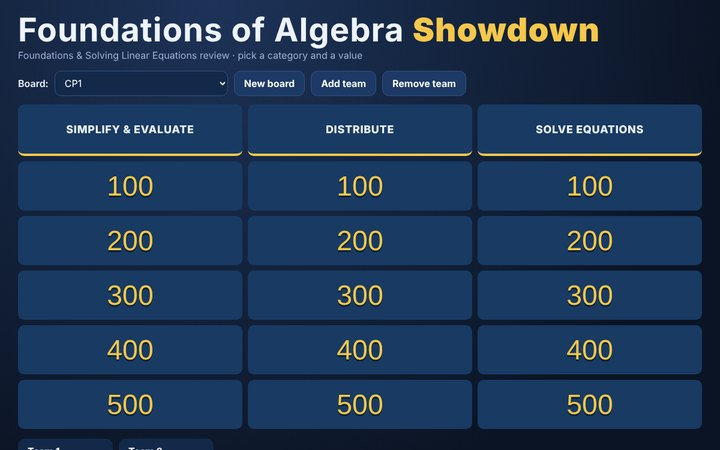
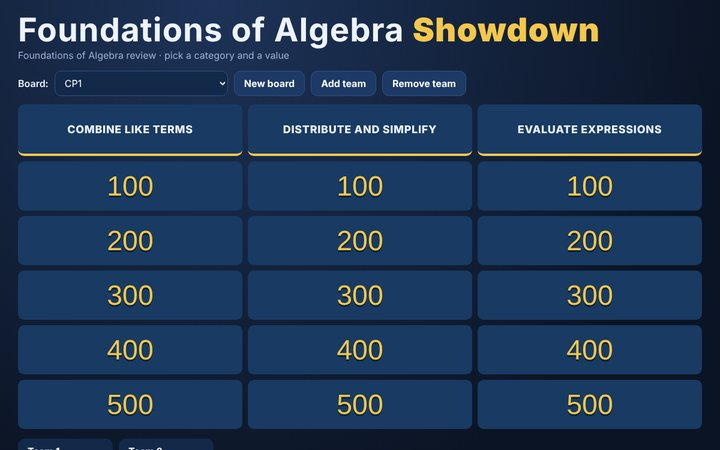
Add files via upload

diff --git a/worksheet-generator/games/games.js b/worksheet-generator/games/games.js
@@ -77,7 +77,7 @@
     var S = { level: saved.level || 'cp1', skill: 'all', cards: [], order: [], i: 0, flip: false, rate: saved.rate || {}, missed: false };
     GB._state = function () { return S; };
     function build() {
-      deck(levelSlots(S.level, skillIds, skillIds.length * 3 < 20 ? 2 : 1), { msg: 'Shuffling a fresh deck…' }, function (its) {
+      deck(levelSlots(S.level, skillIds, Math.max(1, Math.ceil(20 / (skillIds.length * 3)))), { msg: 'Shuffling a fresh deck…' }, function (its) {
         S.cards = its; S.rate = {}; S.i = 0; S.flip = false; S.missed = false; refilter(); persist(); render();
       });
     }
@@ -136,11 +136,13 @@
     var NAMES = { cp2: 'CP2', cp1: 'CP1', honors: 'Honors', mixed: 'Mixed (100 easy → 500 Honors)' };
     var S = { preset: saved.preset || 'cp1', teams: saved.teams || ['Team 1', 'Team 2'], score: [], cells: {}, open: null, showOpts: false, showAns: false };
     GB._state = function () { return S; };
-    var cols = tags.slice(0, 6), VALUES = [100, 200, 300, 400, 500];
+    /* one category per skill group; a unit with fewer than three groups gets one category per skill instead */
+    var cols = (tags.length >= 3 ? tags.slice(0, 6).map(function (t) { return { name: SET.tags[t], skills: skillIds.filter(function (id) { return SET.byId[id].tag === t; }) }; })
+      : skillIds.slice(0, 6).map(function (id) { return { name: SET.byId[id].name, skills: [id] }; })), VALUES = [100, 200, 300, 400, 500];
     function build() {
       var slots = [];
       cols.forEach(function (t, ci) {
-        var sk = rng.shuffle(skillIds.filter(function (id) { return SET.byId[id].tag === t; }));
+        var sk = rng.shuffle(t.skills.slice());
         VALUES.forEach(function (v, ri) { slots.push({ skill: sk[ri % sk.length], c: PRESETS[S.preset][ri], col: ci, row: ri }); });
       });
       deck(slots, { msg: 'Setting up the board…' }, function (its) {
@@ -153,7 +155,7 @@
       var h = '<h1 class="sd-title">' + esc(TITLE).replace(/Showdown/, '<b>Showdown</b>') + '</h1><p class="sd-sub">' + esc(SET.unitName) + ' review · pick a category and a value</p>' +
         '<div class="gm-ctl"><label for="sdPreset">Board:</label><select class="gm-sel" id="sdPreset">' + Object.keys(PRESETS).map(function (k) { return '<option value="' + k + '"' + (k === S.preset ? ' selected' : '') + '>' + NAMES[k] + '</option>'; }).join('') + '</select>' +
         '<button class="gm-btn" id="sdNew">New board</button><button class="gm-btn" id="sdAddT"' + (S.teams.length >= 4 ? ' disabled' : '') + '>Add team</button><button class="gm-btn" id="sdRemT"' + (S.teams.length <= 1 ? ' disabled' : '') + '>Remove team</button></div>' +
-        '<div class="sd-board" style="grid-template-columns:repeat(' + cols.length + ',1fr)">' + cols.map(function (t) { return '<div class="sd-cat">' + esc(SET.tags[t]) + '</div>'; }).join('');
+        '<div class="sd-board" style="grid-template-columns:repeat(' + cols.length + ',1fr)">' + cols.map(function (t) { return '<div class="sd-cat">' + esc(t.name) + '</div>'; }).join('');
       VALUES.forEach(function (v, ri) { cols.forEach(function (t, ci) {
         var cell = S.cells[ci + ',' + ri];
         h += cell ? '<button class="sd-cell" data-cell="' + ci + ',' + ri + '"' + (cell.used ? ' disabled aria-label="used"' : ' aria-label="' + esc(SET.tags[t]) + ' for ' + v + '"') + '>' + (cell.used ? '' : v) + '</button>' : '<button class="sd-cell err" disabled>No verified problem</button>';
@@ -172,7 +174,7 @@
     function persist() { save({ preset: S.preset, teams: S.teams }); }
     function renderQ() {
       var it = S.open.it, v = VALUES[it.slot.row];
-      var h = '<div class="sd-q"><div class="gm-row"><span class="sd-val">' + esc(SET.tags[cols[it.slot.col]]) + ' · ' + v + '</span><span class="gm-sp"></span><button class="gm-btn" id="sdBack">Back to board (Esc)</button></div>' + qHtml(it) +
+      var h = '<div class="sd-q"><div class="gm-row"><span class="sd-val">' + esc(cols[it.slot.col].name) + ' · ' + v + '</span><span class="gm-sp"></span><button class="gm-btn" id="sdBack">Back to board (Esc)</button></div>' + qHtml(it) +
         (S.showOpts ? optsHtml(it, { reveal: S.showAns }) : '') +
         '<div class="gm-row" style="margin-top:14px">' + (S.showOpts ? '' : '<button class="gm-btn" id="sdOpts">Show choices</button>') + (S.showAns ? '' : '<button class="gm-btn primary" id="sdAns">Show answer (Space)</button>') + '</div>' +
         (S.showAns ? solHtml(it) + '<div class="gm-row"><b>Award:</b>' + S.teams.map(function (n, i) { return '<button class="gm-btn" data-aw="' + i + '" data-s="1">+' + v + ' ' + esc(n) + '</button><button class="gm-btn" data-aw="' + i + '" data-s="-1">−' + v + '</button>'; }).join('') + '</div>' : '') + '</div>' + teamsHtml();

diff --git a/worksheet-generator/games/bank.js b/worksheet-generator/games/bank.js
@@ -82,7 +82,10 @@
       [ti - 1, ti + 1].forEach(function (j) { if (j >= 0 && j < 4) out.push({ a: nm[1] ? nm[1] + ' ' + TN[j] : cap(TN[j]), w: 3 }); });
       if (di >= 0) [di - 1, di + 1].forEach(function (j) { if (j >= 0 && j < 5) out.push({ a: DN[j] + ' ' + nm[2].toLowerCase(), w: 3 }); }); }
     var CW = [['One solution', 'One solution: the slopes are different.'], ['No solution', 'No solution: the lines are parallel.'], ['Infinitely many solutions', 'Infinitely many solutions: the equations describe the same line.']];
-    if (/^\s*(One solution|No solution|Infinitely many solutions)\b/.test(ans)) CW.forEach(function (cw) { if (ans.indexOf(cw[0]) !== 0) out.push({ a: cw[1], w: 4 }); });
+    // systems words only for systems answers ("No solution: the lines are parallel."), never for one-variable or inequality answers
+    if (/^\s*(One solution|No solution|Infinitely many solutions)\s*:/.test(ans) && !/⟨\s*[a-z]\s*=/.test(ans)) CW.forEach(function (cw) { if (ans.indexOf(cw[0]) !== 0) out.push({ a: cw[1], w: 4 }); });
+    if (/^\s*All real numbers\s*$/.test(ans)) out.push({ a: 'No solution', w: 5 });
+    if (/^\s*No solution\s*$/.test(ans)) out.push({ a: 'All real numbers', w: 5 });
     if (/^\s*Undefined\b/.test(ans)) { out.push({ a: '⟨m=0⟩', w: 5 }); out.push({ a: '⟨m=1⟩', w: 1 }); }
     if (/^⟨m=0⟩$/.test(ans.trim())) out.push({ a: 'Undefined', w: 5 });
     ['Parallel', 'Perpendicular', 'Neither'].forEach(function (wd) { if (new RegExp('^\\s*(Parallel|Perpendicular|Neither)\\s*$').test(ans) && ans.trim() !== wd) out.push({ a: wd, w: 4 }); });
@@ -338,12 +341,16 @@
     opts = opts || {}; var used = { keys: new Set(), sigs: new Set() }, out = [], i = 0, seed = opts.seed || String(Date.now()) + Math.random();
     var rng = G.MKWS.rng.make(G.MKWS.rng.hash(seed + '|deck'));
     function one(slot, n) {
-      var policy = { intOnly: slot.c <= 5, level: 'game' };
-      for (var tries = 0; tries < 10; tries++) {
-        var its = GB.makeItems(setId, slot.skill, slot.c, policy, seed + '|' + n + '|' + tries, used);
-        if (opts.typedOnly) its = its.filter(function (it) { return it.typed; });
-        if (opts.preferTyped && its.some(function (it) { return it.typed; })) its = its.filter(function (it) { return it.typed; });
-        if (its.length) return rng.pick(its);
+      // the slot's difficulty first; if that skill makes no game items there, the nearest difficulty (so no card is missing)
+      var cs = [slot.c, slot.c - 1, slot.c + 1, slot.c - 2, slot.c + 2].filter(function (c) { return c >= 1 && c <= 7; });
+      for (var k = 0; k < cs.length; k++) {
+        var policy = { intOnly: cs[k] <= 5, level: 'game' };
+        for (var tries = 0; tries < (k ? 6 : 10); tries++) {
+          var its = GB.makeItems(setId, slot.skill, cs[k], policy, seed + '|' + n + '|' + k + '|' + tries, used);
+          if (opts.typedOnly) its = its.filter(function (it) { return it.typed; });
+          if (opts.preferTyped && its.some(function (it) { return it.typed; })) its = its.filter(function (it) { return it.typed; });
+          if (its.length) return rng.pick(its);
+        }
       }
       return null;
     }

diff --git a/worksheet-generator/menu-assessment.html b/worksheet-generator/menu-assessment.html
@@ -53,7 +53,7 @@
 <script src="menu/skills/algebra1-polynomials.js?v=menu-ws-1"></script>
 <script src="menu/skills/algebra1-quadratics.js?v=menu-ws-1"></script>
 <script src="menu/render.js?v=menu-ws-1"></script>
-<script src="games/bank.js?v=games-10"></script>
+<script src="games/bank.js?v=games-12"></script>
 <script src="menu/app.js?v=menu-ws-1"></script>
 </body>
 </html>

diff --git a/worksheet-generator/worksheet.html b/worksheet-generator/worksheet.html
@@ -53,7 +53,7 @@
 <script src="menu/skills/algebra1-polynomials.js?v=menu-ws-1"></script>
 <script src="menu/skills/algebra1-quadratics.js?v=menu-ws-1"></script>
 <script src="menu/render.js?v=menu-ws-1"></script>
-<script src="games/bank.js?v=games-10"></script>
+<script src="games/bank.js?v=games-12"></script>
 <script src="menu/app.js?v=menu-ws-1"></script>
 </body>
 </html>

diff --git a/worksheet-generator/games/mkgames.py b/worksheet-generator/games/mkgames.py
@@ -2,12 +2,14 @@
 import sys, os
 repo, unit_dir, set_id, unit_label = sys.argv[1:5]
 skills = sys.argv[5] if len(sys.argv) > 5 else ''
-V = 'games-10'
+V = 'games-12'
+MV = 'menu-ws-1'   # cache string of the menu scripts (keep equal to menu-assessment.html)
+FILES = {'algebra1-foundations': 'algebra1-expressions-equations'}   # skill sets registered inside another set's file
 GAMES = [('flashcards', 'Flashcards'), ('showdown', 'Showdown'), ('connect-four', 'Connect Four'), ('tic-tac-toe', 'Tic-Tac-Toe'), ('picture-reveal', 'Picture Reveal')]
-skill_file = 'skills/' + set_id + '.js'
+skill_file = 'skills/' + FILES.get(set_id, set_id) + '.js'
 core = ['core/rng.js', 'core/frac.js', 'core/tex.js', 'core/graph.js?v=full-audit-v2', 'core/framework.js', 'core/render.js',
-        'menu/mathcheck.js?v=menu-quad-1', 'menu/figures.js?v=menu-quad-1', 'menu/verify.js?v=menu-quad-1', 'menu/engine.js?v=menu-quad-1',
-        'menu/skills/kit.js?v=menu-quad-1', 'menu/' + skill_file + '?v=menu-quad-1', 'menu/render.js?v=menu-quad-1', 'games/bank.js?v=' + V, 'games/games.js?v=' + V]
+        'menu/mathcheck.js?v=' + MV + '', 'menu/figures.js?v=' + MV + '', 'menu/verify.js?v=' + MV + '', 'menu/engine.js?v=' + MV + '',
+        'menu/skills/kit.js?v=' + MV + '', 'menu/' + skill_file + '?v=' + MV + '', 'menu/render.js?v=' + MV + '', 'games/bank.js?v=' + V, 'games/games.js?v=' + V]
 for g, name in GAMES:
     title = unit_label + ' ' + name if g != 'picture-reveal' else unit_label + ': Picture Reveal'
     d = os.path.join(repo, 'artifacts', unit_dir + '-' + g); os.makedirs(d, exist_ok=True)

diff --git a/worksheet-generator/games/README.md b/worksheet-generator/games/README.md
@@ -22,7 +22,24 @@ banks (`worksheet-generator/menu/skills/`). They look and play like the hand-bui
   ("Yes, because…") are multiple choice only.
 
 ## Units with games
-- Relations and Functions (`relations-functions-*`), Foundations of Algebra (`foundations-algebra-*`, expression skills), Exponential Functions (`exponential-functions-*`), Factoring (`factoring-zero-product-*`), Statistics (`statistics-data-modeling-*`), Linear Functions (`linear-functions-*`; the older hand-made `linear-equations-slope-*` games stay), Systems (`systems-*`; the hand-made `systems-of-equations-*` games stay), Exponents (`exponents-*`; the hand-made `exponents-exponential-functions-*` games stay), Polynomials (`polynomials-*`, titled “Polynomial Practice …”), Quadratics (`quadratic-practice-*`, “Quadratic Practice …”).
+Every Algebra 1 unit has exactly these five generated games and no other flashcards, showdown/jeopardy,
+connect-four, tic-tac-toe or picture-reveal games (`scripts/check_library.py` enforces it; the older hand-made
+copies were unlisted 2026-10-25 because the generated Showdown lets teachers add teams).
+
+| Unit | Folder prefix | Skill set | Title |
+|---|---|---|---|
+| 1 | `foundations-algebra` | algebra1-foundations | Foundations of Algebra |
+| 2 | `solving-equations` | algebra1-expressions-equations (equation skills only) | Solving Equations |
+| 3 | `linear-inequalities` | algebra1-inequalities | Linear Inequalities |
+| 4 | `relations-functions` | algebra1-relations-functions | Relations and Functions |
+| 5 | `linear-functions` | algebra1-linear-equations-slope | Linear Functions |
+| 6 | `systems` | algebra1-systems-of-equations | Systems of Equations |
+| 7 | `exponents` | algebra1-exponents-scientific-notation | Exponents |
+| 8 | `exponential-functions` | algebra1-exponential-functions | Exponential Functions |
+| 9 | `polynomials` | algebra1-polynomials | Polynomials |
+| 10 | `factoring-zero-product` | algebra1-factoring-zero-product | Factoring |
+| 11 | `quadratic-practice` | algebra1-quadratics | Quadratics |
+| 12 | `statistics-data-modeling` | algebra1-statistics-data-modeling | Statistics |
 
 ## Adding a unit
 1. The unit needs a menu skill set (`worksheet-generator/menu/skills/<set>.js`).
